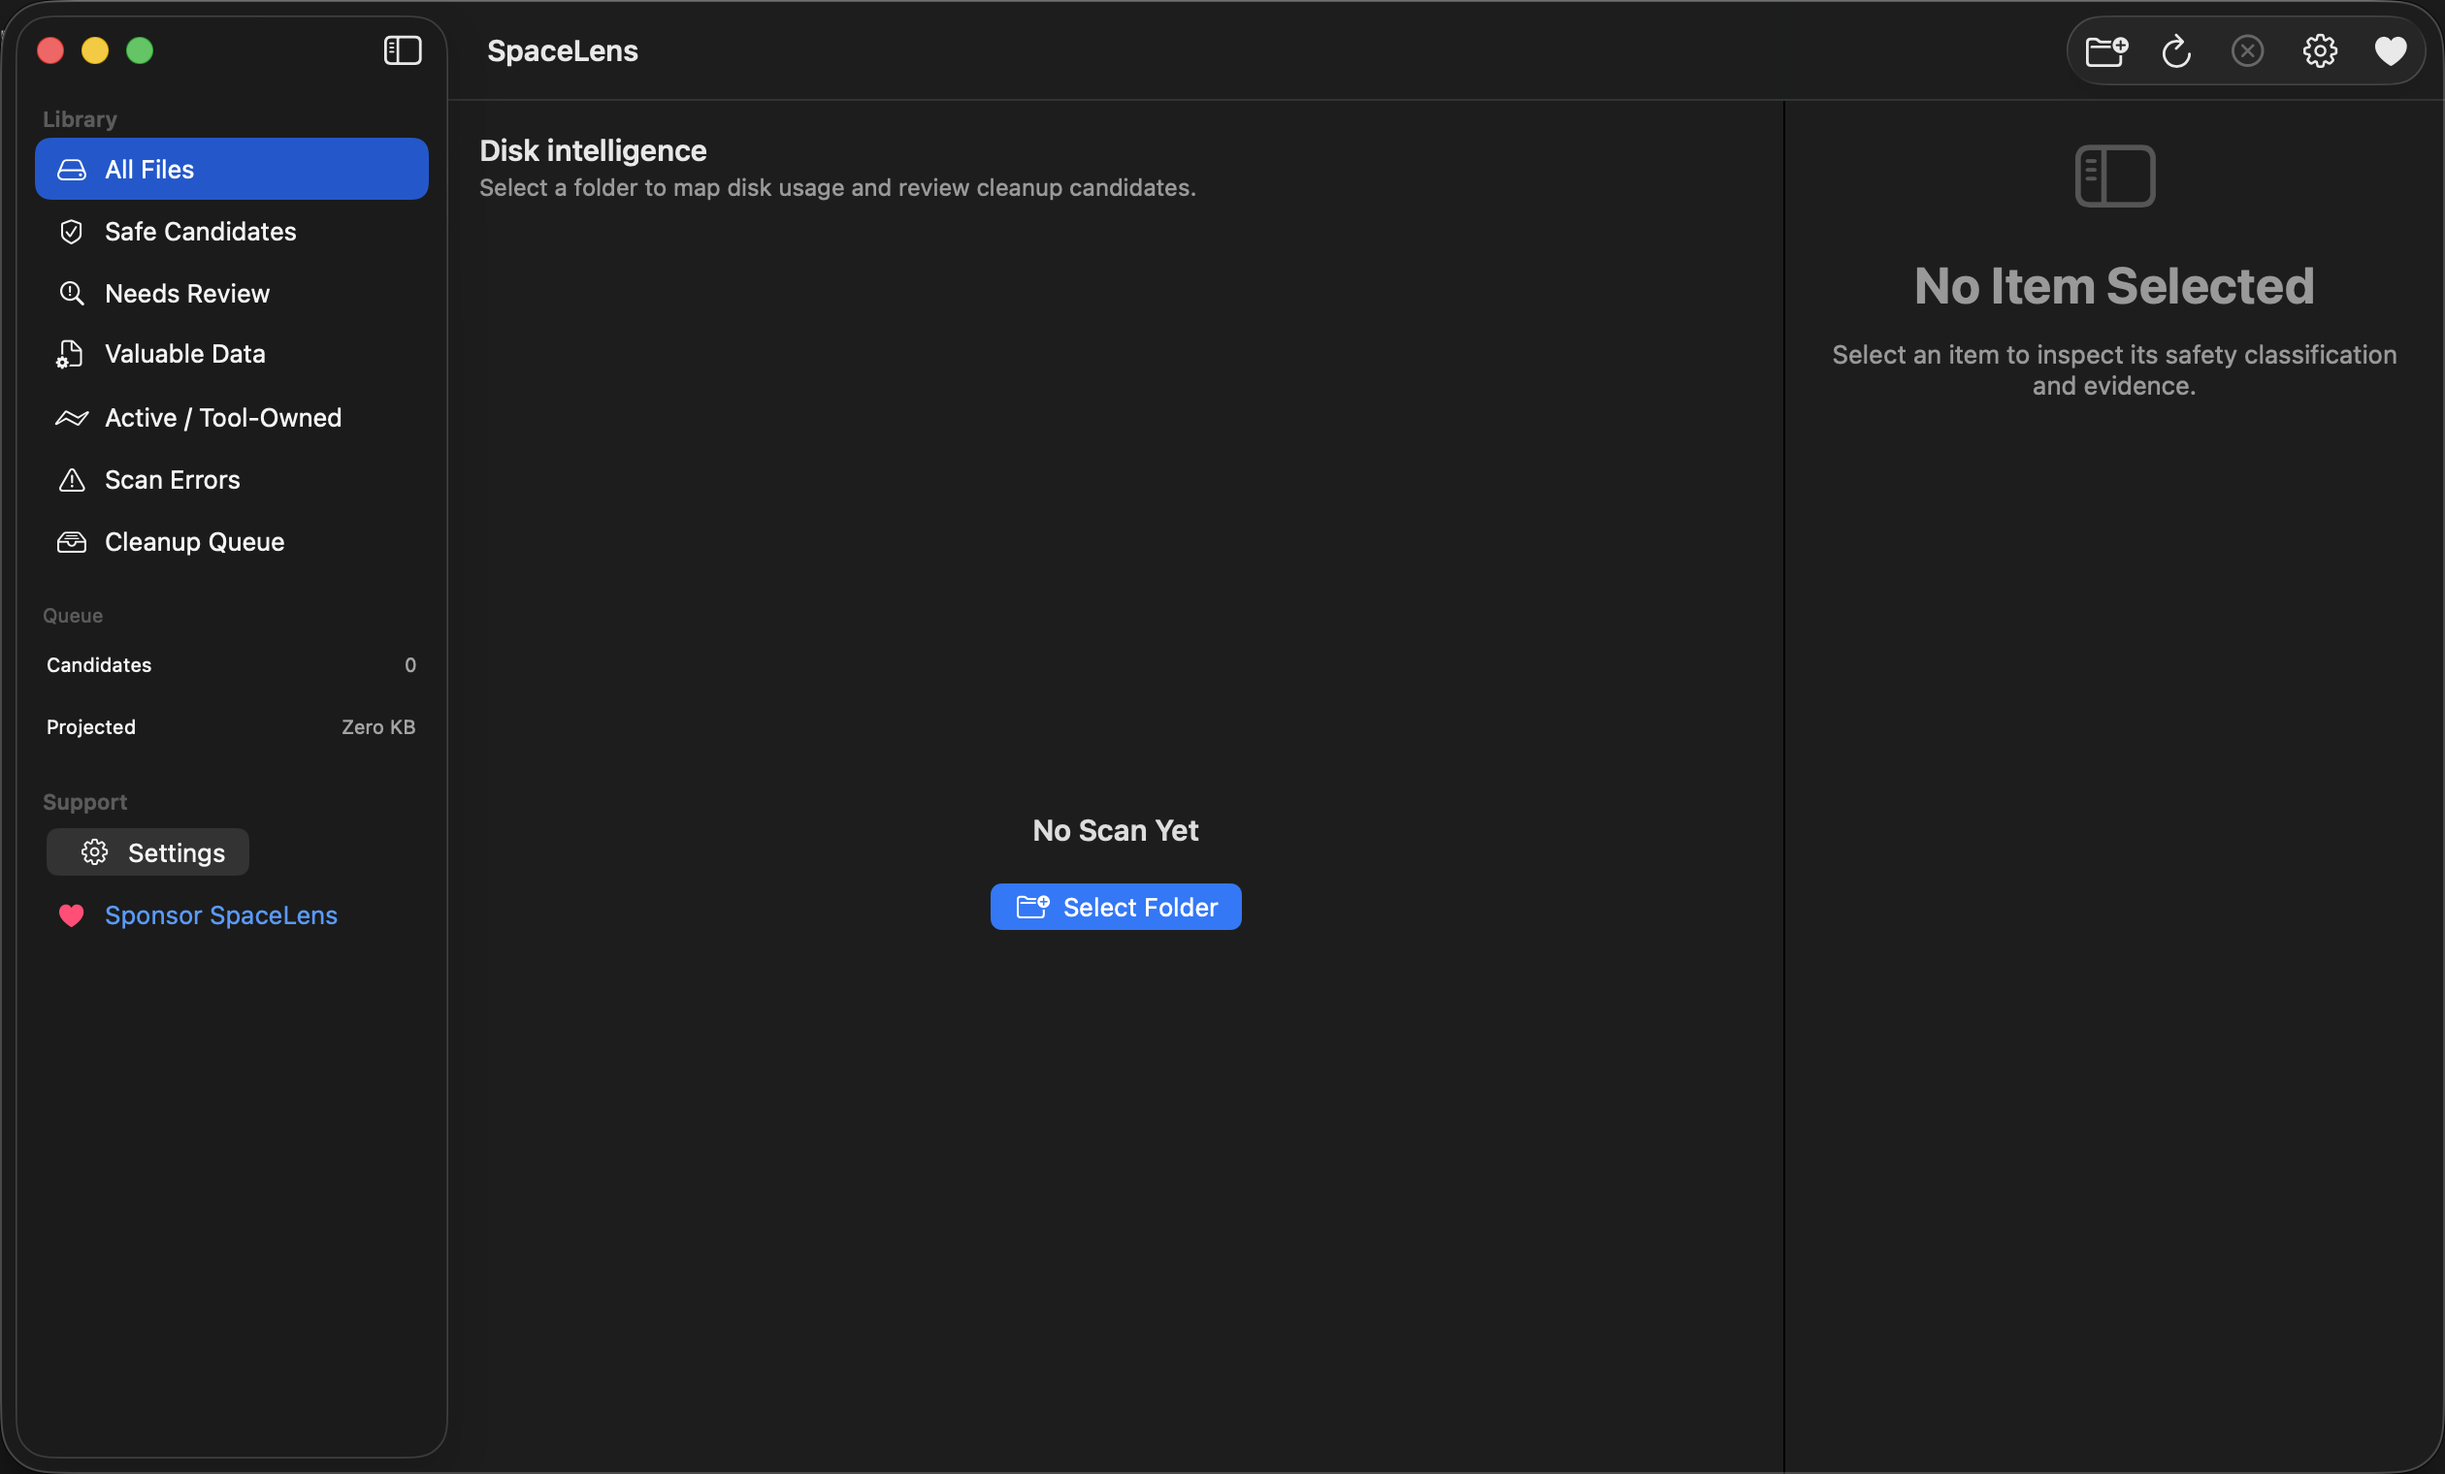
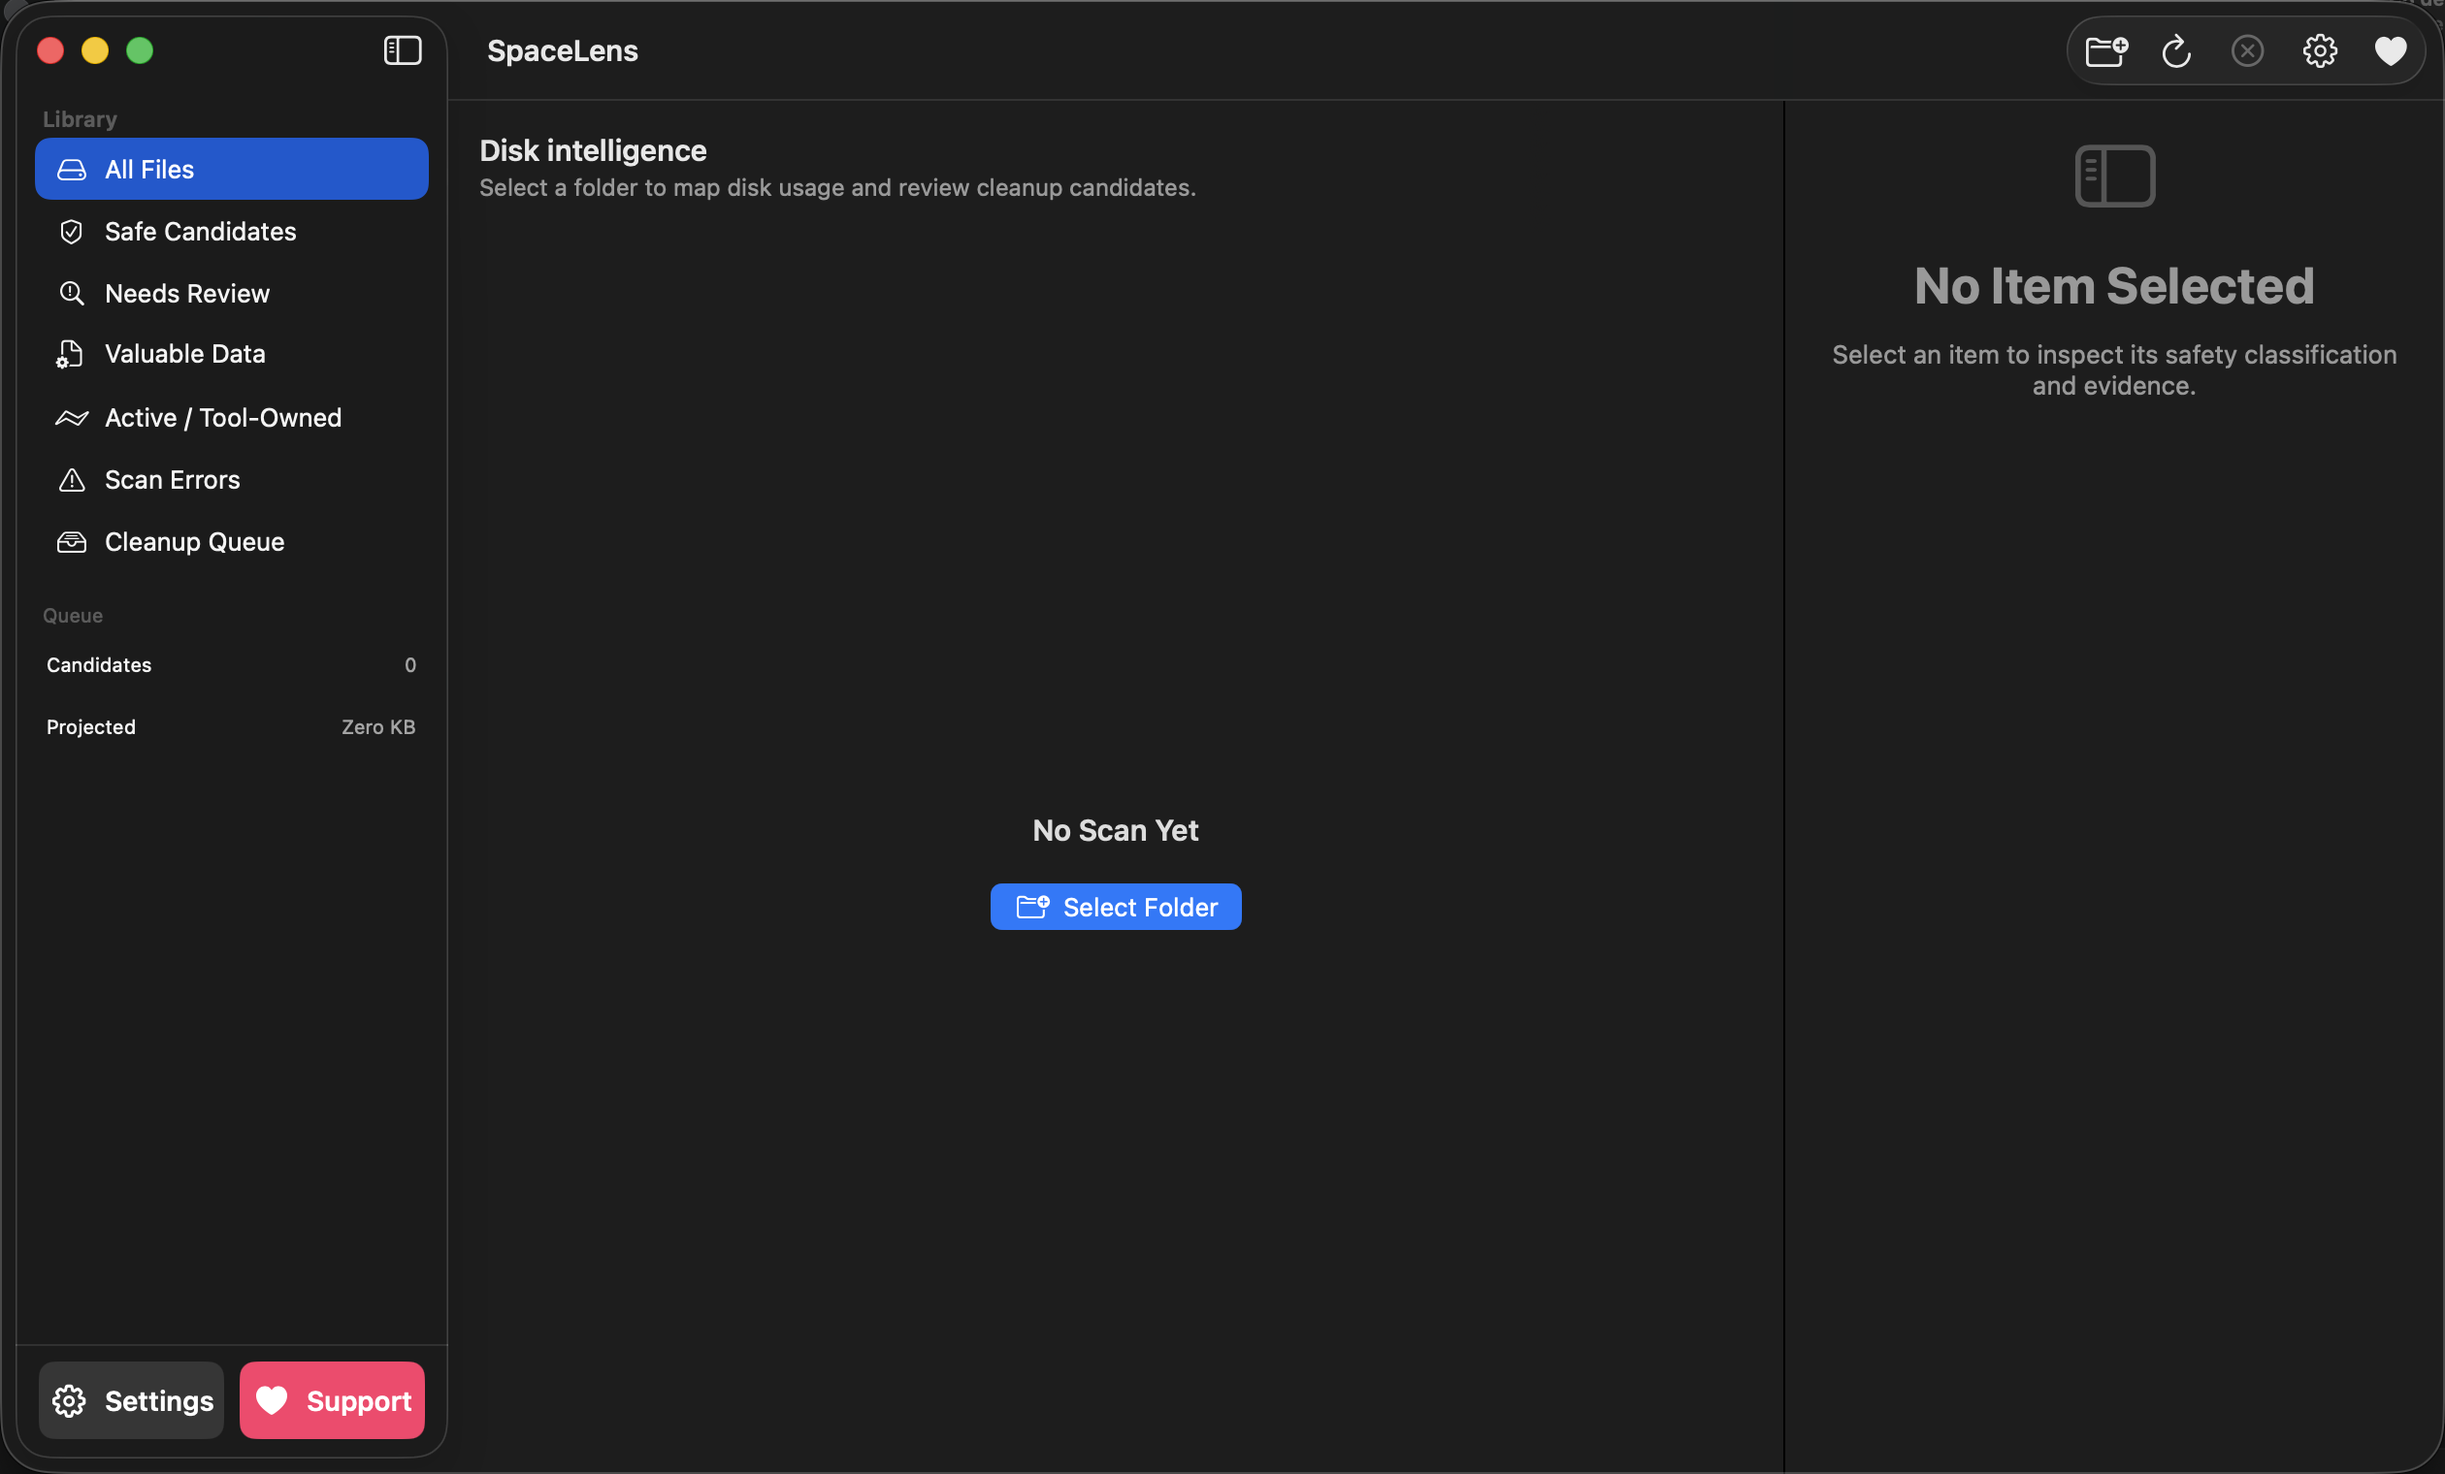
Polish support action bar

diff --git a/Sources/SpaceLens/Views/SidebarView.swift b/Sources/SpaceLens/Views/SidebarView.swift
@@ -7,72 +7,53 @@ struct SidebarView: View {
         GeometryReader { geometry in
             let layout = SidebarLayout(width: geometry.size.width)
 
-            List(selection: $appState.sidebarSelection) {
-                Section("Library") {
-                    ForEach(AppState.SidebarSelection.allCases) { item in
-                        Label {
-                            Text(layout.title(for: item))
-                                .lineLimit(1)
-                        } icon: {
-                            Image(systemName: icon(for: item))
+            VStack(spacing: 0) {
+                List(selection: $appState.sidebarSelection) {
+                    Section("Library") {
+                        ForEach(AppState.SidebarSelection.allCases) { item in
+                            Label {
+                                Text(layout.title(for: item))
+                                    .lineLimit(1)
+                            } icon: {
+                                Image(systemName: icon(for: item))
+                            }
+                            .help(item.title)
+                            .tag(item)
                         }
-                        .help(item.title)
-                        .tag(item)
                     }
-                }
 
-                if let snapshot = appState.snapshot {
-                    Section("Last Scan") {
+                    if let snapshot = appState.snapshot {
+                        Section("Last Scan") {
+                            if layout.isCompact {
+                                SidebarMetric(title: "Root", value: URL(fileURLWithPath: snapshot.rootPath).lastPathComponent.ifEmpty(snapshot.rootPath))
+                                SidebarMetric(title: "Size", value: ByteFormat.string(snapshot.totalAllocatedSize))
+                                SidebarMetric(title: "Items", value: "\(snapshot.nodeCount)")
+                                SidebarMetric(title: "Errors", value: "\(snapshot.errorCount)")
+                            } else {
+                                LabeledContent("Root", value: snapshot.rootPath)
+                                LabeledContent("Size", value: ByteFormat.string(snapshot.totalAllocatedSize))
+                                LabeledContent("Items", value: "\(snapshot.nodeCount)")
+                                LabeledContent("Errors", value: "\(snapshot.errorCount)")
+                            }
+                        }
+                        .font(.caption)
+                    }
+
+                    Section("Queue") {
                         if layout.isCompact {
-                            SidebarMetric(title: "Root", value: URL(fileURLWithPath: snapshot.rootPath).lastPathComponent.ifEmpty(snapshot.rootPath))
-                            SidebarMetric(title: "Size", value: ByteFormat.string(snapshot.totalAllocatedSize))
-                            SidebarMetric(title: "Items", value: "\(snapshot.nodeCount)")
-                            SidebarMetric(title: "Errors", value: "\(snapshot.errorCount)")
+                            SidebarMetric(title: "Candidates", value: "\(appState.cleanupQueue.count)")
+                            SidebarMetric(title: "Projected", value: ByteFormat.string(appState.projectedRecoverableBytes))
                         } else {
-                            LabeledContent("Root", value: snapshot.rootPath)
-                            LabeledContent("Size", value: ByteFormat.string(snapshot.totalAllocatedSize))
-                            LabeledContent("Items", value: "\(snapshot.nodeCount)")
-                            LabeledContent("Errors", value: "\(snapshot.errorCount)")
+                            LabeledContent("Candidates", value: "\(appState.cleanupQueue.count)")
+                            LabeledContent("Projected", value: ByteFormat.string(appState.projectedRecoverableBytes))
                         }
                     }
                     .font(.caption)
                 }
+                .listStyle(.sidebar)
 
-                Section("Queue") {
-                    if layout.isCompact {
-                        SidebarMetric(title: "Candidates", value: "\(appState.cleanupQueue.count)")
-                        SidebarMetric(title: "Projected", value: ByteFormat.string(appState.projectedRecoverableBytes))
-                    } else {
-                        LabeledContent("Candidates", value: "\(appState.cleanupQueue.count)")
-                        LabeledContent("Projected", value: ByteFormat.string(appState.projectedRecoverableBytes))
-                    }
-                }
-                .font(.caption)
-
-                Section("Support") {
-                    SettingsLink {
-                        Label {
-                            Text("Settings")
-                                .lineLimit(1)
-                        } icon: {
-                            Image(systemName: "gearshape")
-                        }
-                    }
-                    .help("Open SpaceLens settings")
-
-                    Link(destination: SupportLinks.buyMeACoffee) {
-                        Label {
-                            Text(layout.sponsorTitle)
-                                .lineLimit(1)
-                        } icon: {
-                            Image(systemName: "heart.fill")
-                                .foregroundStyle(.pink)
-                        }
-                    }
-                    .help("Support SpaceLens")
-                }
+                SidebarSupportBar(isCompact: layout.isCompact)
             }
-            .listStyle(.sidebar)
         }
     }
 
@@ -103,10 +84,6 @@ private struct SidebarLayout {
         width < 176
     }
 
-    var sponsorTitle: String {
-        isCompact ? "Sponsor" : "Sponsor SpaceLens"
-    }
-
     func title(for selection: AppState.SidebarSelection) -> String {
         guard isCompact else {
             return selection.title
@@ -128,6 +105,62 @@ private struct SidebarLayout {
         case .queue:
             return "Queue"
         }
+    }
+}
+
+private struct SidebarSupportBar: View {
+    let isCompact: Bool
+
+    var body: some View {
+        VStack(spacing: 8) {
+            Divider()
+
+            HStack(spacing: 8) {
+                SettingsLink {
+                    SidebarSupportButton(title: "Settings", systemImage: "gearshape", background: .white.opacity(0.12))
+                }
+                .buttonStyle(.plain)
+                .help("Open SpaceLens settings")
+
+                Link(destination: SupportLinks.buyMeACoffee) {
+                    SidebarSupportButton(title: "Support", systemImage: "heart.fill", background: Color(red: 1.0, green: 0.22, blue: 0.42))
+                }
+                .buttonStyle(.plain)
+                .help("Support SpaceLens")
+            }
+            .frame(height: 40)
+            .padding(.horizontal, isCompact ? 8 : 12)
+            .padding(.bottom, 10)
+        }
+    }
+}
+
+private struct SidebarSupportButton: View {
+    let title: String
+    let systemImage: String
+    let background: Color
+
+    var body: some View {
+        ViewThatFits(in: .horizontal) {
+            HStack(spacing: 8) {
+                Image(systemName: systemImage)
+                    .font(.system(size: 16, weight: .semibold))
+                Text(title)
+                    .font(.system(size: 14, weight: .semibold))
+                    .lineLimit(1)
+                    .minimumScaleFactor(0.8)
+            }
+
+            Image(systemName: systemImage)
+                .font(.system(size: 16, weight: .semibold))
+        }
+        .foregroundStyle(.white)
+        .frame(maxWidth: .infinity, minHeight: 40)
+        .background {
+            RoundedRectangle(cornerRadius: 8, style: .continuous)
+                .fill(background)
+        }
+        .contentShape(RoundedRectangle(cornerRadius: 8, style: .continuous))
     }
 }
 

diff --git a/Sources/SpaceLens/Views/ContentView.swift b/Sources/SpaceLens/Views/ContentView.swift
@@ -56,7 +56,7 @@ struct ContentView: View {
                 Button {
                     NSWorkspace.shared.open(SupportLinks.buyMeACoffee)
                 } label: {
-                    Label("Sponsor", systemImage: "heart.fill")
+                    Label("Support", systemImage: "heart.fill")
                 }
                 .help("Support SpaceLens")
             }

diff --git a/README.md b/README.md
@@ -19,7 +19,7 @@ rules, and queues review candidates before cleanup.
   Delete Forever for cleanup-ready items only.
 - Local intelligence summaries and per-item evidence without sending file
   contents or metadata to external services.
-- Visible Settings and Sponsor entry points in the toolbar, sidebar, menu bar,
+- Visible Settings and Support entry points in the toolbar, sidebar, menu bar,
   and Settings window.
 
 ## Run
@@ -48,8 +48,7 @@ swift build -c release
 - Use Select All or Select Safe to build a multi-selection.
 - Use the bottom action bar to queue, move to Bin, or permanently delete only
   cleanup-ready items.
-- Open Settings or Sponsor SpaceLens from the toolbar or the Support section in
-  the sidebar.
+- Open Settings or Support from the toolbar or the bottom sidebar action strip.
 
 ## Safety
 
